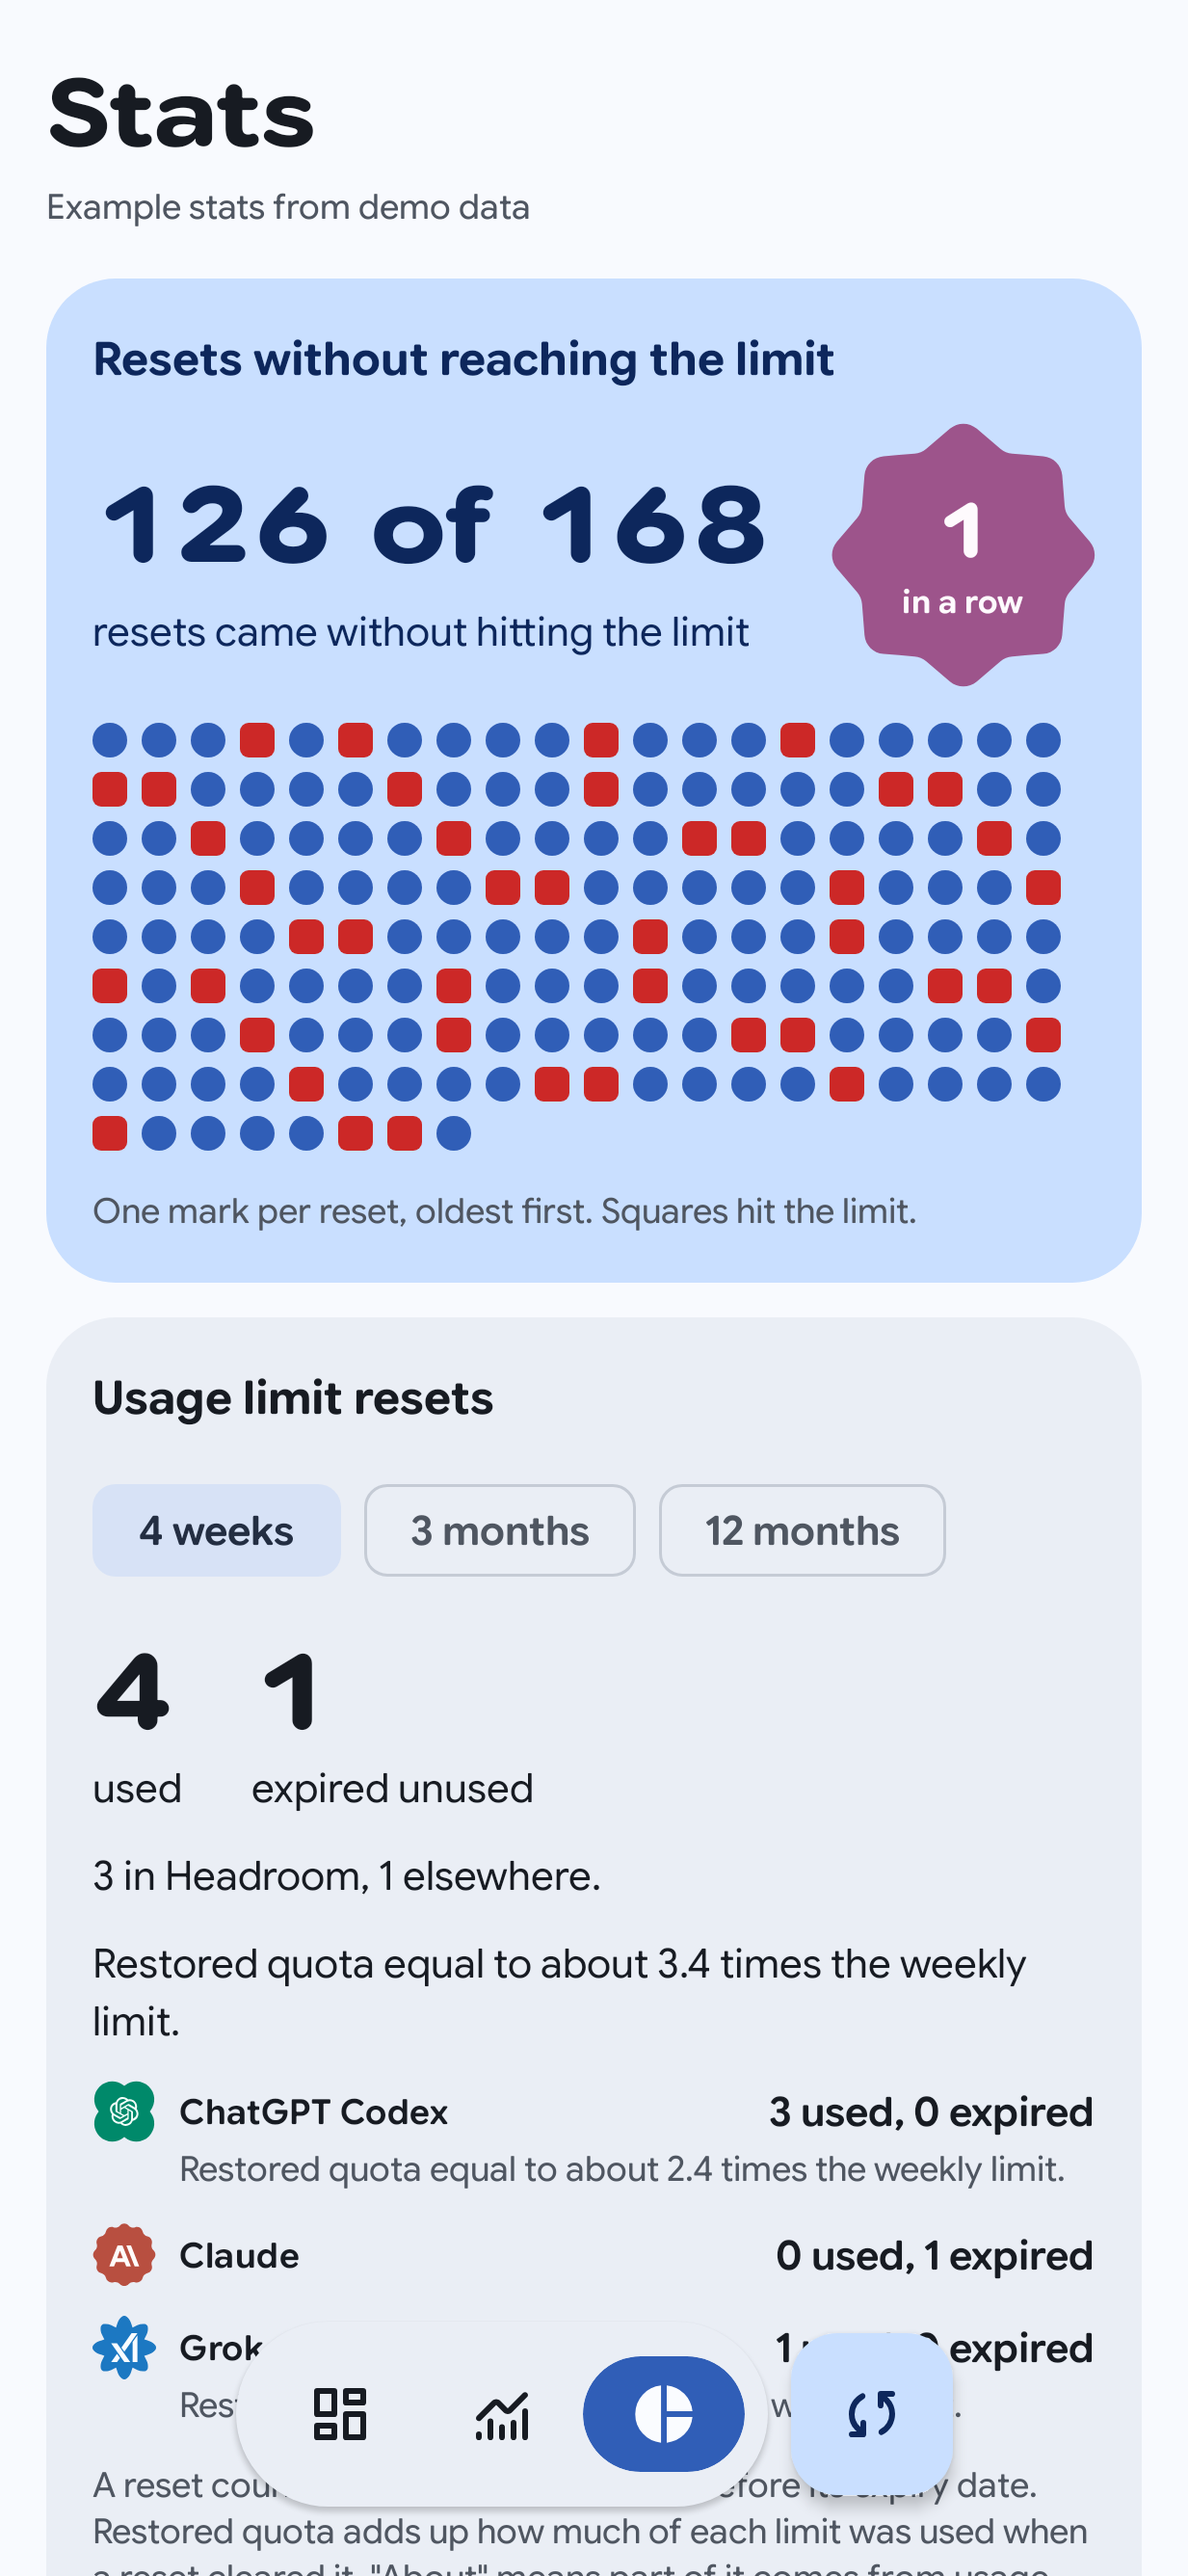
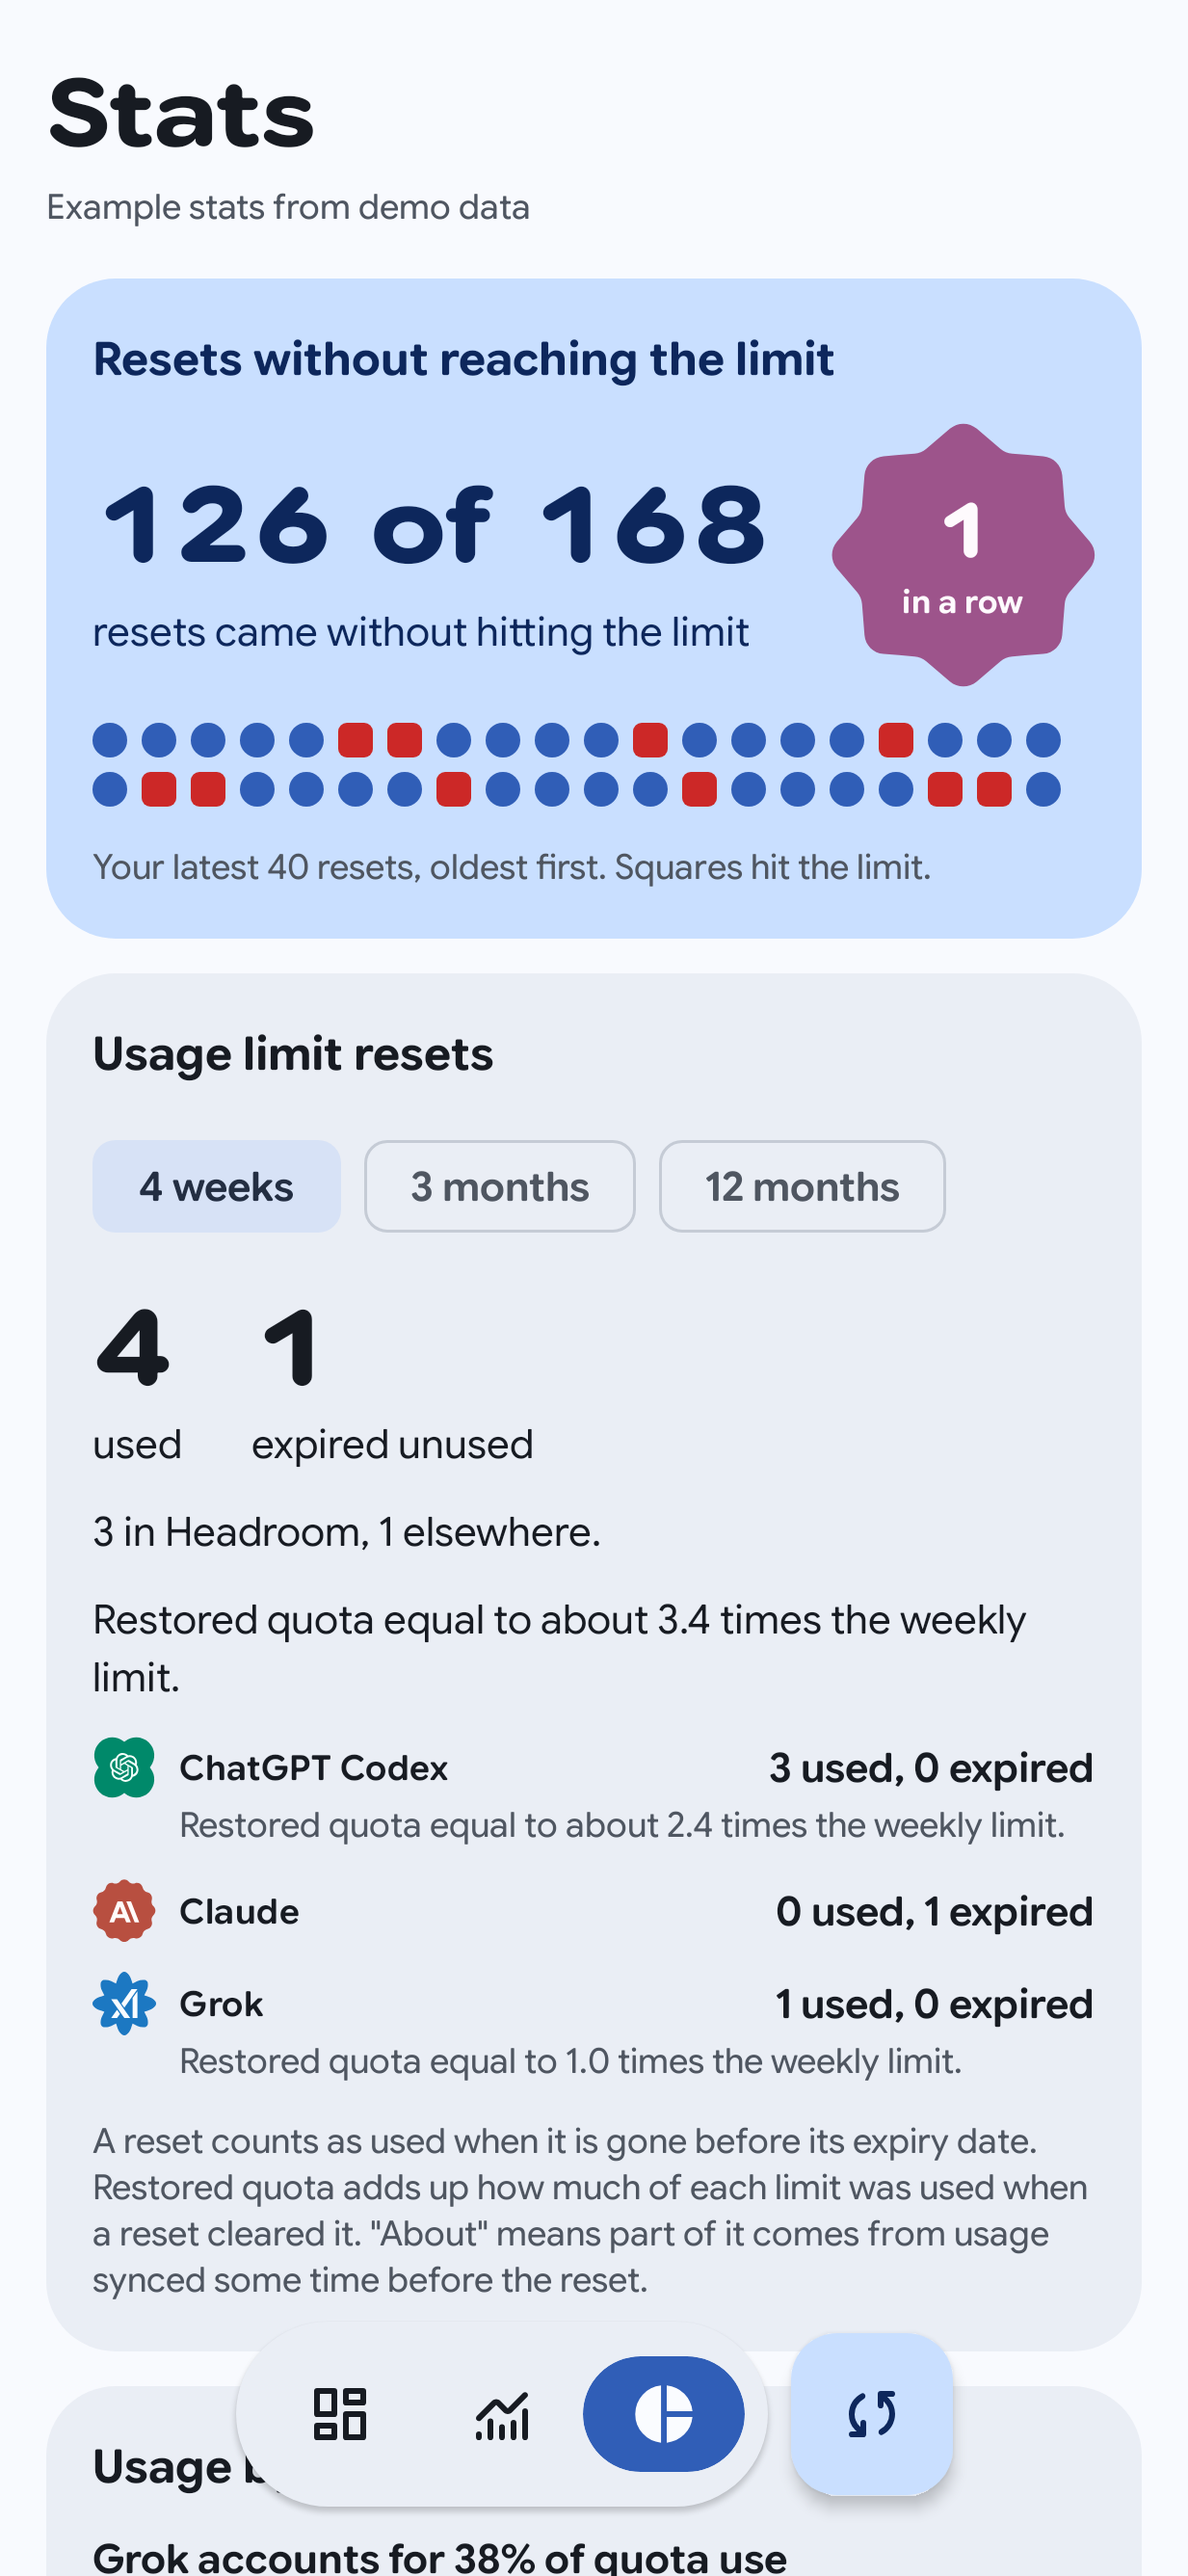
Cap reset marks to two rows and restrict heatmap to hourly history
ResetsCard measures its available width and shows at most two rows of
the latest reset marks (oldest first), updating the caption to name how
many recent resets are shown while keeping the headline clean/total
count and current streak over all recorded history.

heatmap restricts hourlyBurn to the last 31 days, where LongTerm
retention keeps one-hour or finer resolution, preventing 3-hour and
12-hour buckets from smearing daytime usage into night hours.

diff --git a/app/src/main/kotlin/dev/sebastiano/headroom/ui/stats/StatsCards.kt b/app/src/main/kotlin/dev/sebastiano/headroom/ui/stats/StatsCards.kt
@@ -3,6 +3,7 @@ package dev.sebastiano.headroom.ui.stats
 import androidx.compose.foundation.background
 import androidx.compose.foundation.layout.Arrangement
 import androidx.compose.foundation.layout.Box
+import androidx.compose.foundation.layout.BoxWithConstraints
 import androidx.compose.foundation.layout.Column
 import androidx.compose.foundation.layout.IntrinsicSize
 import androidx.compose.foundation.layout.Row
@@ -25,6 +26,7 @@ import androidx.compose.ui.Alignment
 import androidx.compose.ui.Modifier
 import androidx.compose.ui.draw.clip
 import androidx.compose.ui.graphics.Color
+import androidx.compose.ui.platform.LocalDensity
 import androidx.compose.ui.platform.LocalLocale
 import androidx.compose.ui.res.pluralStringResource
 import androidx.compose.ui.res.stringResource
@@ -96,8 +98,32 @@ internal fun ResetsCard(score: ResetScore?, modifier: Modifier = Modifier) {
                 }
                 StreakBadge(score.streak)
             }
-            ResetMarks(score.timeline)
-            ChartNote(stringResource(R.string.stats_resets_legend))
+            BoxWithConstraints(modifier = Modifier.fillMaxWidth()) {
+                val density = LocalDensity.current
+                val capacity =
+                    with(density) {
+                        maxResetMarks(
+                            widthPx = constraints.maxWidth,
+                            markPx = ResetMarkSize.roundToPx(),
+                            gapPx = ResetMarkGap.roundToPx(),
+                        )
+                    }
+                val shown = score.timeline.takeLast(capacity)
+                Column(verticalArrangement = Arrangement.spacedBy(12.dp)) {
+                    ResetMarks(shown)
+                    ChartNote(
+                        if (shown.size < score.timeline.size) {
+                            pluralStringResource(
+                                R.plurals.stats_resets_legend_latest,
+                                shown.size,
+                                shown.size,
+                            )
+                        } else {
+                            stringResource(R.string.stats_resets_legend)
+                        }
+                    )
+                }
+            }
         }
     }
 }

diff --git a/app/src/test/kotlin/dev/sebastiano/headroom/ui/StatsTest.kt b/app/src/test/kotlin/dev/sebastiano/headroom/ui/StatsTest.kt
@@ -21,6 +21,7 @@ import dev.sebastiano.headroom.model.WindowKind
 import dev.sebastiano.headroom.model.stats.GivenBack
 import dev.sebastiano.headroom.model.stats.ProviderResetUsage
 import dev.sebastiano.headroom.model.stats.ResetPeriod
+import dev.sebastiano.headroom.model.stats.ResetScore
 import dev.sebastiano.headroom.model.stats.ResetUsage
 import dev.sebastiano.headroom.model.stats.ResetUsageStats
 import dev.sebastiano.headroom.model.stats.Stats
@@ -71,11 +72,42 @@ class StatsTest {
         openStats()
         rule.onNodeWithText("Example stats from demo data", substring = true).assertIsDisplayed()
         scrollToDescription("of 168 resets came without hitting the limit")
+        rule
+            .onNodeWithText(
+                "Your latest 40 resets, oldest first. Squares hit the limit.",
+                useUnmergedTree = true,
+            )
+            .assertIsDisplayed()
         scrollToDescription("Share of quota use: ")
         scrollToDescription("Quota use by day and hour")
         scrollTo("Grok reached 99%")
         scrollToDescription("was left unused at reset")
         scrollToDescription("Claude over the last 7 days")
+    }
+
+    @Test
+    fun `when all resets fit in two rows the legend says one mark per reset`() {
+        val score =
+            ResetScore(
+                total = 10,
+                clean = 8,
+                streak = 3,
+                timeline = List(10) { it == 2 || it == 6 },
+            )
+        rule.setContent {
+            HeadroomTheme(dynamicColor = false) {
+                StatsScreen(
+                    StatsUiState(loading = false, stats = Stats(resets = score)),
+                    formatter,
+                )
+            }
+        }
+        rule
+            .onNodeWithText(
+                "One mark per reset, oldest first. Squares hit the limit.",
+                useUnmergedTree = true,
+            )
+            .assertIsDisplayed()
     }
 
     @Test

diff --git a/core/model/src/commonMain/kotlin/dev/sebastiano/headroom/model/stats/StatsMaths.kt b/core/model/src/commonMain/kotlin/dev/sebastiano/headroom/model/stats/StatsMaths.kt
@@ -11,6 +11,13 @@ import kotlinx.datetime.isoDayNumber
 /** The heatmap needs this much history, so that every day of the week has had a turn. */
 private val MIN_HEATMAP_SPAN: Duration = (BurnHeatmap.DAYS.toLong()).days
 
+/**
+ * Points up to this age stay at one-hour resolution or finer in
+ * [dev.sebastiano.headroom.model.HistoryRetention.LongTerm]. Older points are in 3-hour and 12-hour
+ * buckets that cannot place usage into a single hour of the day.
+ */
+private val HEATMAP_RESOLUTION_SPAN: Duration = 31.days
+
 /** The sparklines show this recent span. */
 public val SPARKLINE_SPAN: Duration = (BurnHeatmap.DAYS.toLong()).days
 
@@ -98,17 +105,19 @@ public fun shares(sources: List<StatsSource>): List<ProviderShare> {
 }
 
 /**
- * The use in each hour of the week, or null before a week of history or without any use that can be
- * placed in time.
+ * The use in each hour of the week from the hourly-resolution history, or null before a week of
+ * history or without any use that can be placed in time.
  */
 public fun heatmap(sources: List<StatsSource>, zone: TimeZone): BurnHeatmap? {
     val times = sources.flatMap { source -> source.points.map { it.at } }
     val first = times.minOrNull() ?: return null
     val last = times.maxOrNull() ?: return null
     if (last - first < MIN_HEATMAP_SPAN) return null
+    val cutoff = last.minus(HEATMAP_RESOLUTION_SPAN)
     val cells = DoubleArray(BurnHeatmap.DAYS * BurnHeatmap.HOURS)
     sources.forEach { source ->
-        hourlyBurn(source.points, zone).forEach { (hour, amount) -> cells[hour.cell] += amount }
+        val hourlyPoints = source.points.filter { it.at >= cutoff }
+        hourlyBurn(hourlyPoints, zone).forEach { (hour, amount) -> cells[hour.cell] += amount }
     }
     return if (cells.any { it > 0.0 }) BurnHeatmap(cells.toList()) else null
 }

diff --git a/app/src/main/kotlin/dev/sebastiano/headroom/ui/stats/StatsCharts.kt b/app/src/main/kotlin/dev/sebastiano/headroom/ui/stats/StatsCharts.kt
@@ -50,12 +50,12 @@ internal fun ResetMarks(timeline: List<Boolean>, modifier: Modifier = Modifier) 
     val hit = MaterialTheme.colorScheme.error
     FlowRow(
         modifier = modifier.clearAndSetSemantics {},
-        horizontalArrangement = Arrangement.spacedBy(5.dp),
-        verticalArrangement = Arrangement.spacedBy(5.dp),
+        horizontalArrangement = Arrangement.spacedBy(ResetMarkGap),
+        verticalArrangement = Arrangement.spacedBy(ResetMarkGap),
     ) {
         timeline.forEach { hitLimit ->
             Box(
-                Modifier.size(MarkSize)
+                Modifier.size(ResetMarkSize)
                     .background(
                         if (hitLimit) hit else clean,
                         if (hitLimit) RoundedCornerShape(3.dp) else CircleShape,
@@ -63,6 +63,18 @@ internal fun ResetMarks(timeline: List<Boolean>, modifier: Modifier = Modifier) 
             )
         }
     }
+}
+
+/** How many reset marks fit in [maxRows] rows of [widthPx] pixels. */
+internal fun maxResetMarks(
+    widthPx: Int,
+    markPx: Int,
+    gapPx: Int,
+    maxRows: Int = MAX_MARK_ROWS,
+): Int {
+    if (widthPx <= 0 || markPx <= 0) return maxRows
+    val perRow = maxOf(1, (widthPx + gapPx) / (markPx + gapPx))
+    return perRow * maxRows
 }
 
 /**
@@ -222,8 +234,10 @@ private const val MIN_STRENGTH = 0.18f
 /** The corner radius of a heatmap cell, as a share of its side. */
 private const val CELL_ROUNDNESS = 0.25f
 private const val AREA_ALPHA = 0.14f
+private const val MAX_MARK_ROWS = 2
 private val HOUR_TICKS = listOf(0, 6, 12, 18)
-private val MarkSize = 12.dp
+internal val ResetMarkSize = 12.dp
+internal val ResetMarkGap = 5.dp
 private val DonutStroke = 20.dp
 private val LabelGutter = 16.dp
 private val CellGap = 2.dp

diff --git a/app/src/test/kotlin/dev/sebastiano/headroom/ui/stats/StatsViewModelTest.kt b/app/src/test/kotlin/dev/sebastiano/headroom/ui/stats/StatsViewModelTest.kt
@@ -19,8 +19,10 @@ import kotlin.test.assertEquals
 import kotlin.test.assertFalse
 import kotlin.test.assertTrue
 import kotlin.time.Duration.Companion.days
+import kotlin.time.Duration.Companion.milliseconds
 import kotlin.time.Duration.Companion.seconds
 import kotlin.time.Instant
+import kotlin.time.measureTime
 import kotlinx.coroutines.ExperimentalCoroutinesApi
 import kotlinx.coroutines.flow.Flow
 import kotlinx.coroutines.flow.MutableStateFlow
@@ -130,5 +132,29 @@ class StatsViewModelTest {
             assertFalse(state.loading)
             assertEquals(null, state.stats.resets)
             assertEquals(null, state.stats.coverage)
+        }
+
+    @Test
+    fun `computing stats for four accounts with a year of history is fast`() =
+        runTest(main.dispatcher) {
+            val demoHistory = DemoUsageHistory(DemoResetHistory, { now }, ZoneOffset.UTC)
+            // Warm up once.
+            val warmup = viewModel(demoHistory)
+            val warmupJob = backgroundScope.launch { warmup.state.collect {} }
+            runCurrent()
+            warmupJob.cancel()
+
+            val elapsed = measureTime {
+                val vm = viewModel(demoHistory)
+                val job = backgroundScope.launch { vm.state.collect {} }
+                runCurrent()
+                assertFalse(vm.state.value.loading)
+                assertEquals(168, vm.state.value.stats.resets?.total)
+                job.cancel()
+            }
+            assertTrue(
+                elapsed < 50.milliseconds,
+                "Expected StatsViewModel year computation under 50 ms, took $elapsed",
+            )
         }
 }

diff --git a/core/model/src/commonTest/kotlin/dev/sebastiano/headroom/model/stats/StatsMathsTest.kt b/core/model/src/commonTest/kotlin/dev/sebastiano/headroom/model/stats/StatsMathsTest.kt
@@ -388,7 +388,14 @@ class StatsMathsTest {
             assertEquals(expected.fraction, actual.fraction, 1e-6)
         }
         val map = requireNotNull(compactStats.heatmap)
+        assertEquals(fullStats.heatmap, map)
         assertEquals(Persona.NineToFive, persona(map))
+        // Night hours (00:00..08:00) had no usage and are not smeared by 3h/12h buckets.
+        for (day in DayOfWeek.entries) {
+            for (hour in 0..8) {
+                assertEquals(0.0, map.at(day, hour), "Expected 0 burn on $day at $hour:00")
+            }
+        }
         assertTrue(compactStats.biggestDay != null && compactStats.biggestDay.points > 0.0)
     }
 }
